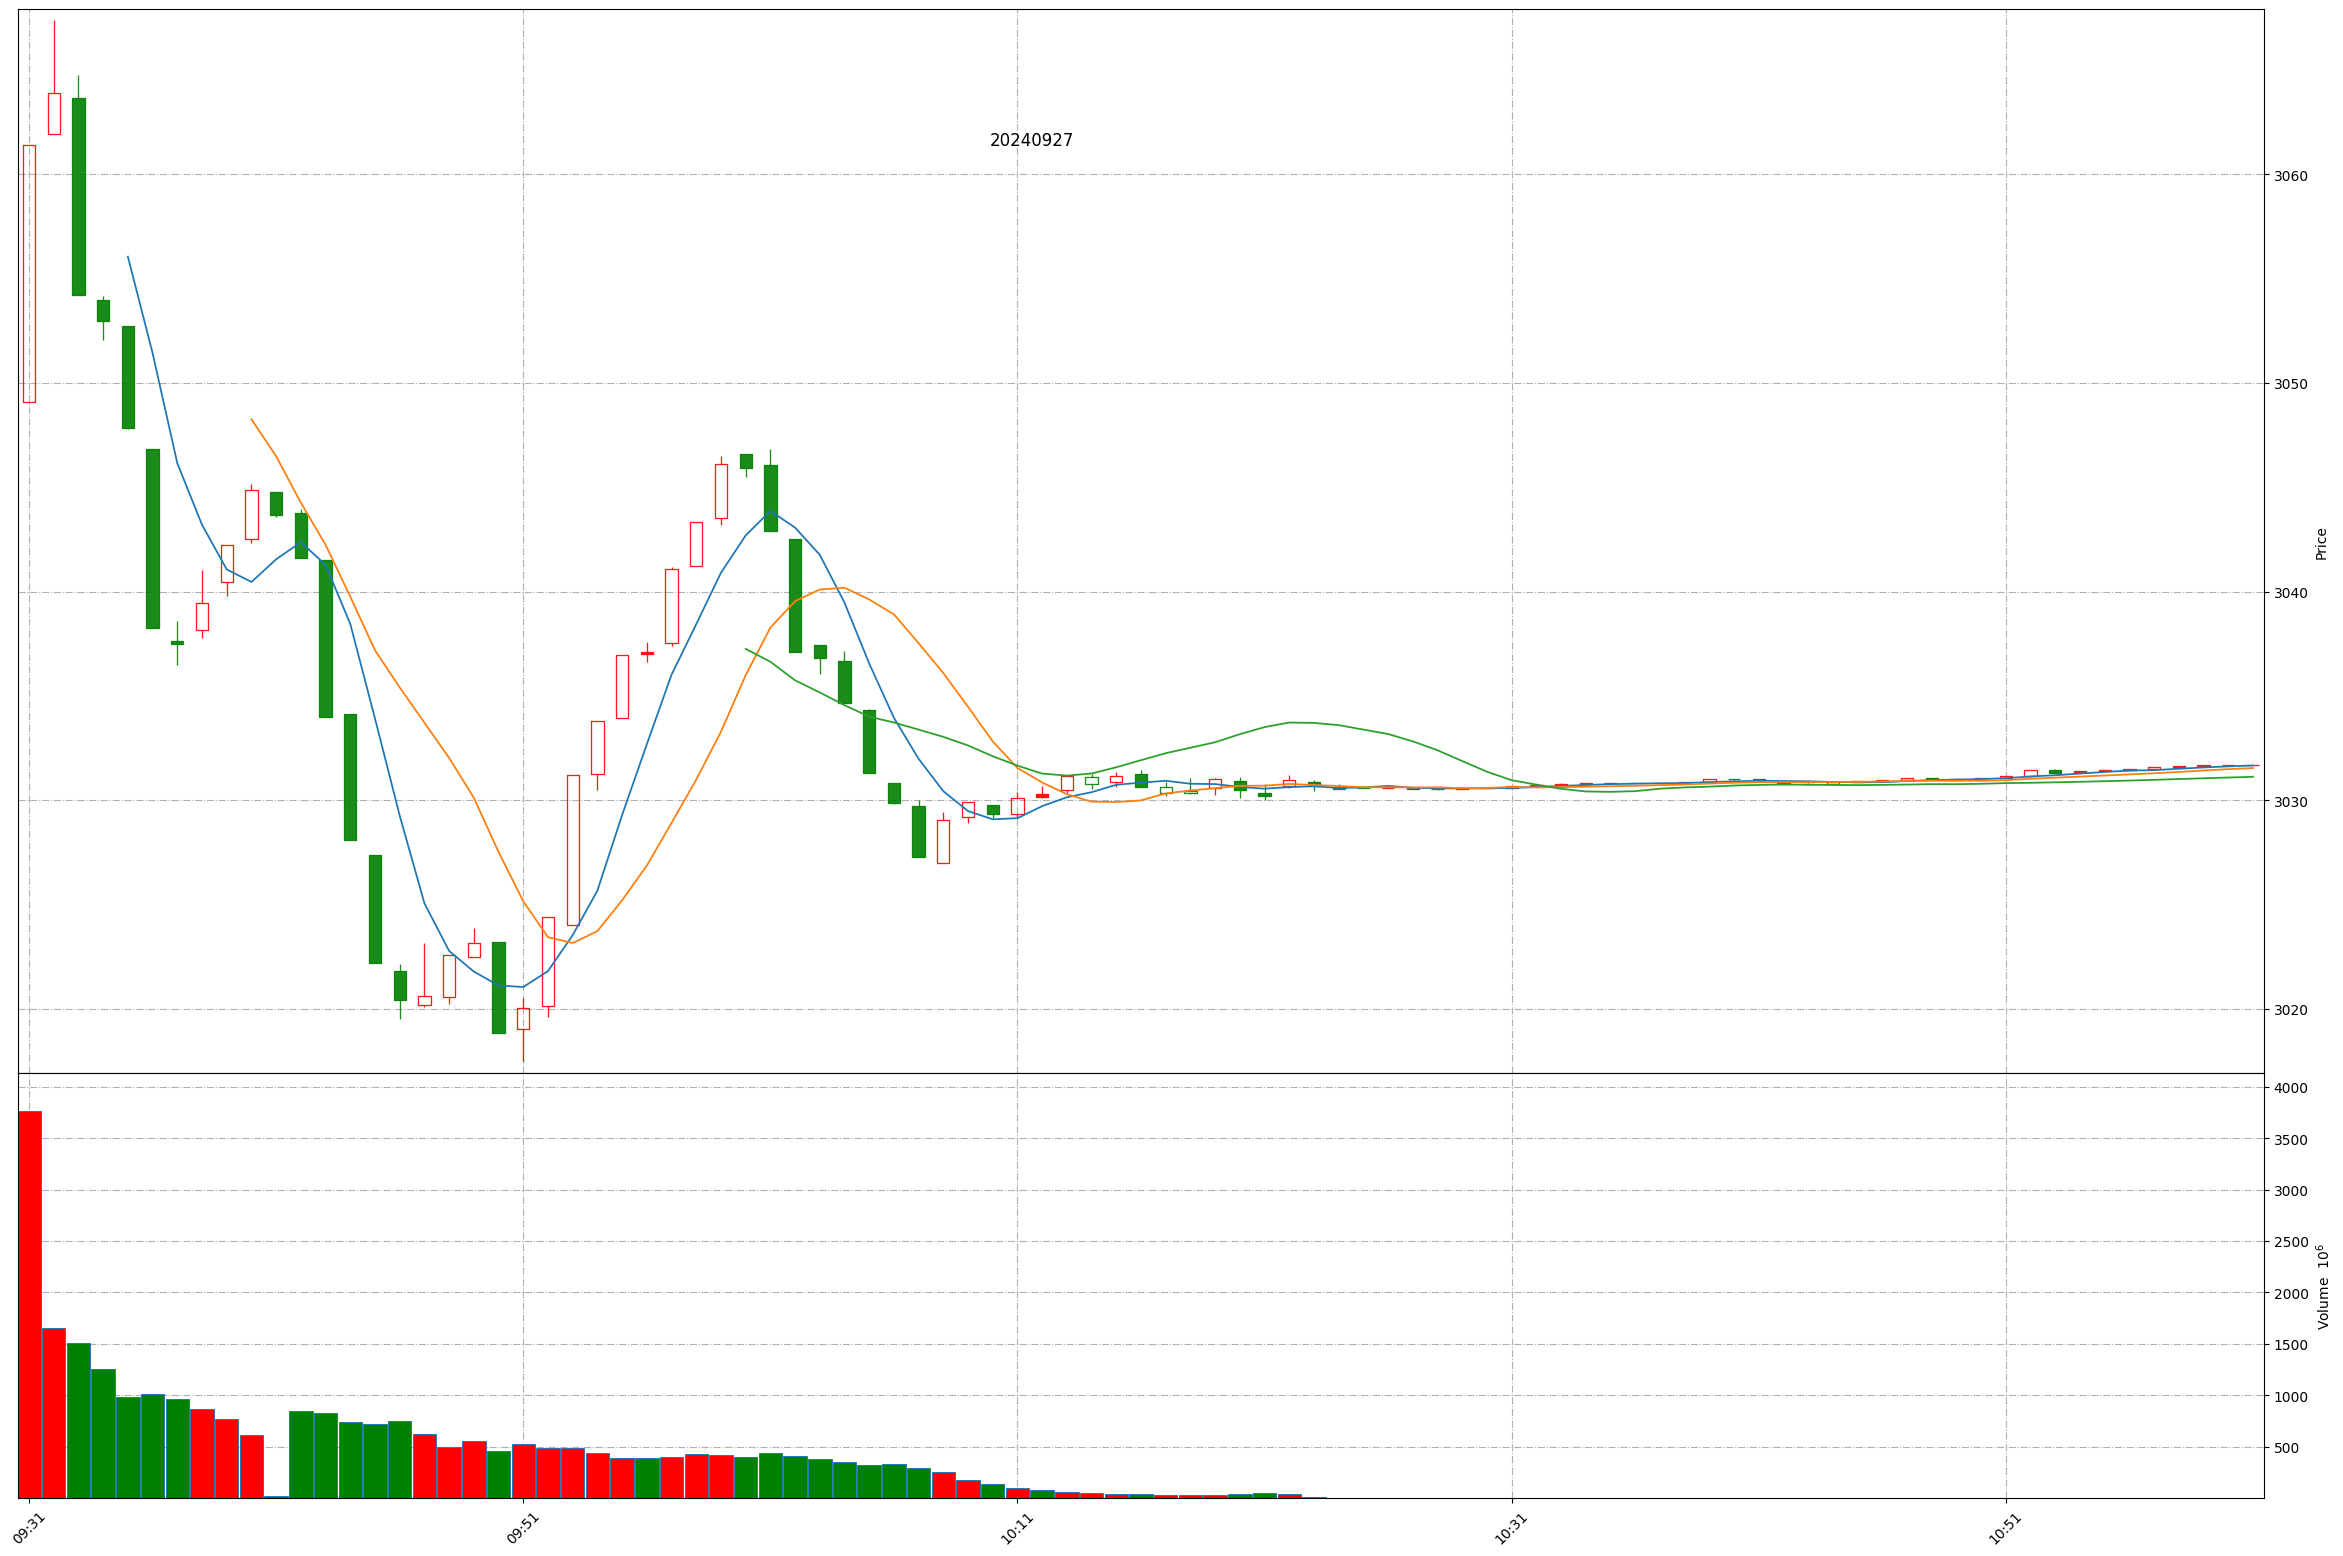
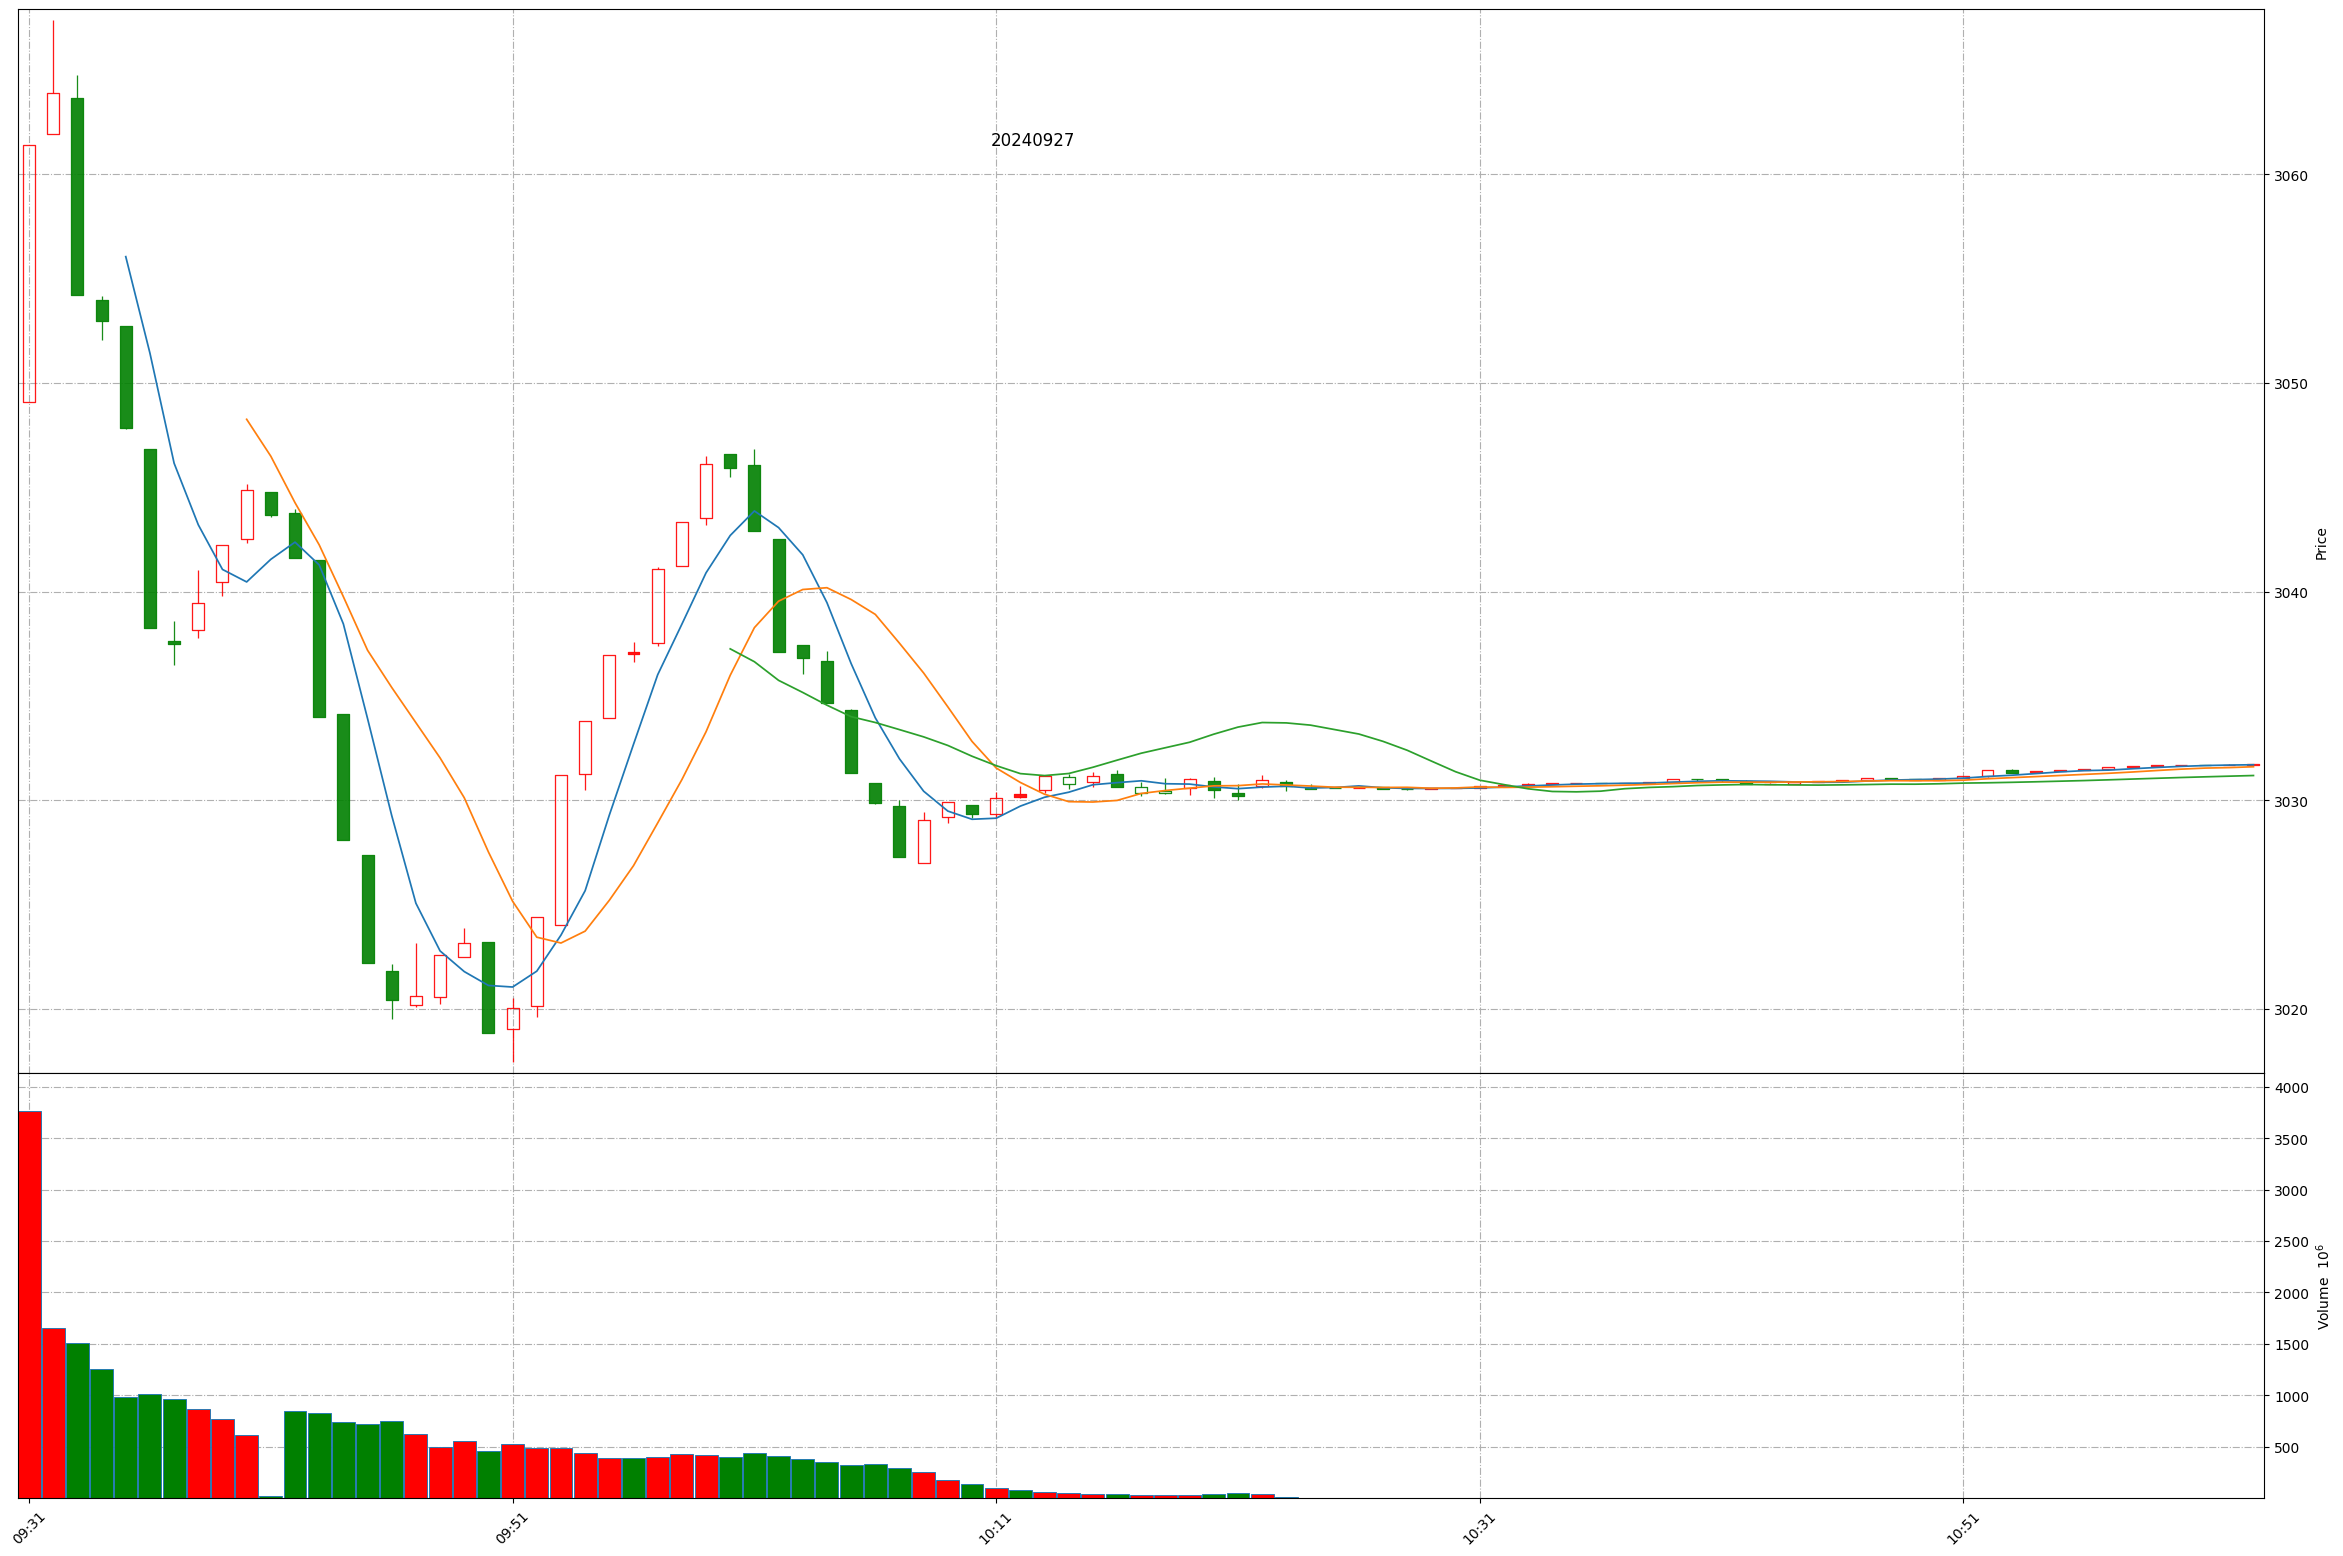
Github action update at 2024-09-27 11:03:26.

diff --git a/README.md b/README.md
@@ -1,11 +1,11 @@
 
 # Daily-A-share-market-quotes 每日 A 股指数（5min 更新）- 20240927
 
-### 上证指数 20240927 11:0
+### 上证指数 20240927 11:3
 ![](./fig/2024/9/20240927-sh000001.png)
 
-### 深证成指 20240927 11:0
+### 深证成指 20240927 11:3
 ![](./fig/2024/9/20240927-sz399001.png)
 
-### 北证50 20240927 11:0
+### 北证50 20240927 11:3
 ![](./fig/2024/9/20240927-bj899050.png)
